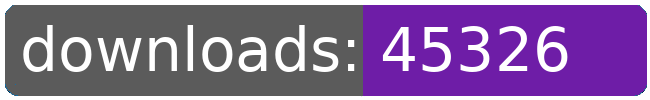
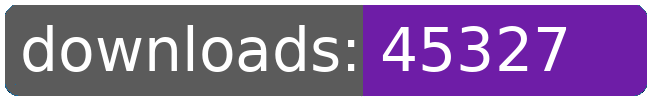
dl log written

Changed region(s): [[0.8, 0.24, 0.8923, 0.72]]

diff --git a/README.md b/README.md
@@ -21,8 +21,8 @@
 		<td>3192</td>
 		<td>3218</td>
 		<td>3239</td>
-		<td>3246</td>
-		<td>+ 7</td>
+		<td>3247</td>
+		<td>+ 8</td>
 	</tr>
 	<tr>
 		<td>aberrant.kahet.outfitter</td>
@@ -274,8 +274,8 @@
 		<td></td>
 		<td></td>
 		<td></td>
-		<td>45326</td>
-		<td>146</td>
+		<td>45327</td>
+		<td>147</td>
 	</tr>
 </table>
 </sub></sup>
@@ -322,8 +322,8 @@
 		<td>3192</td>
 		<td>3218</td>
 		<td>3239</td>
-		<td>3246</td>
-		<td>+ 7</td>
+		<td>3247</td>
+		<td>+ 8</td>
 	</tr>
 	<tr>
 		<td>capture.archons</td>
@@ -553,8 +553,8 @@
 		<td></td>
 		<td></td>
 		<td></td>
-		<td>45326</td>
-		<td>146</td>
+		<td>45327</td>
+		<td>147</td>
 	</tr>
 </table>
 </sub></sup>
